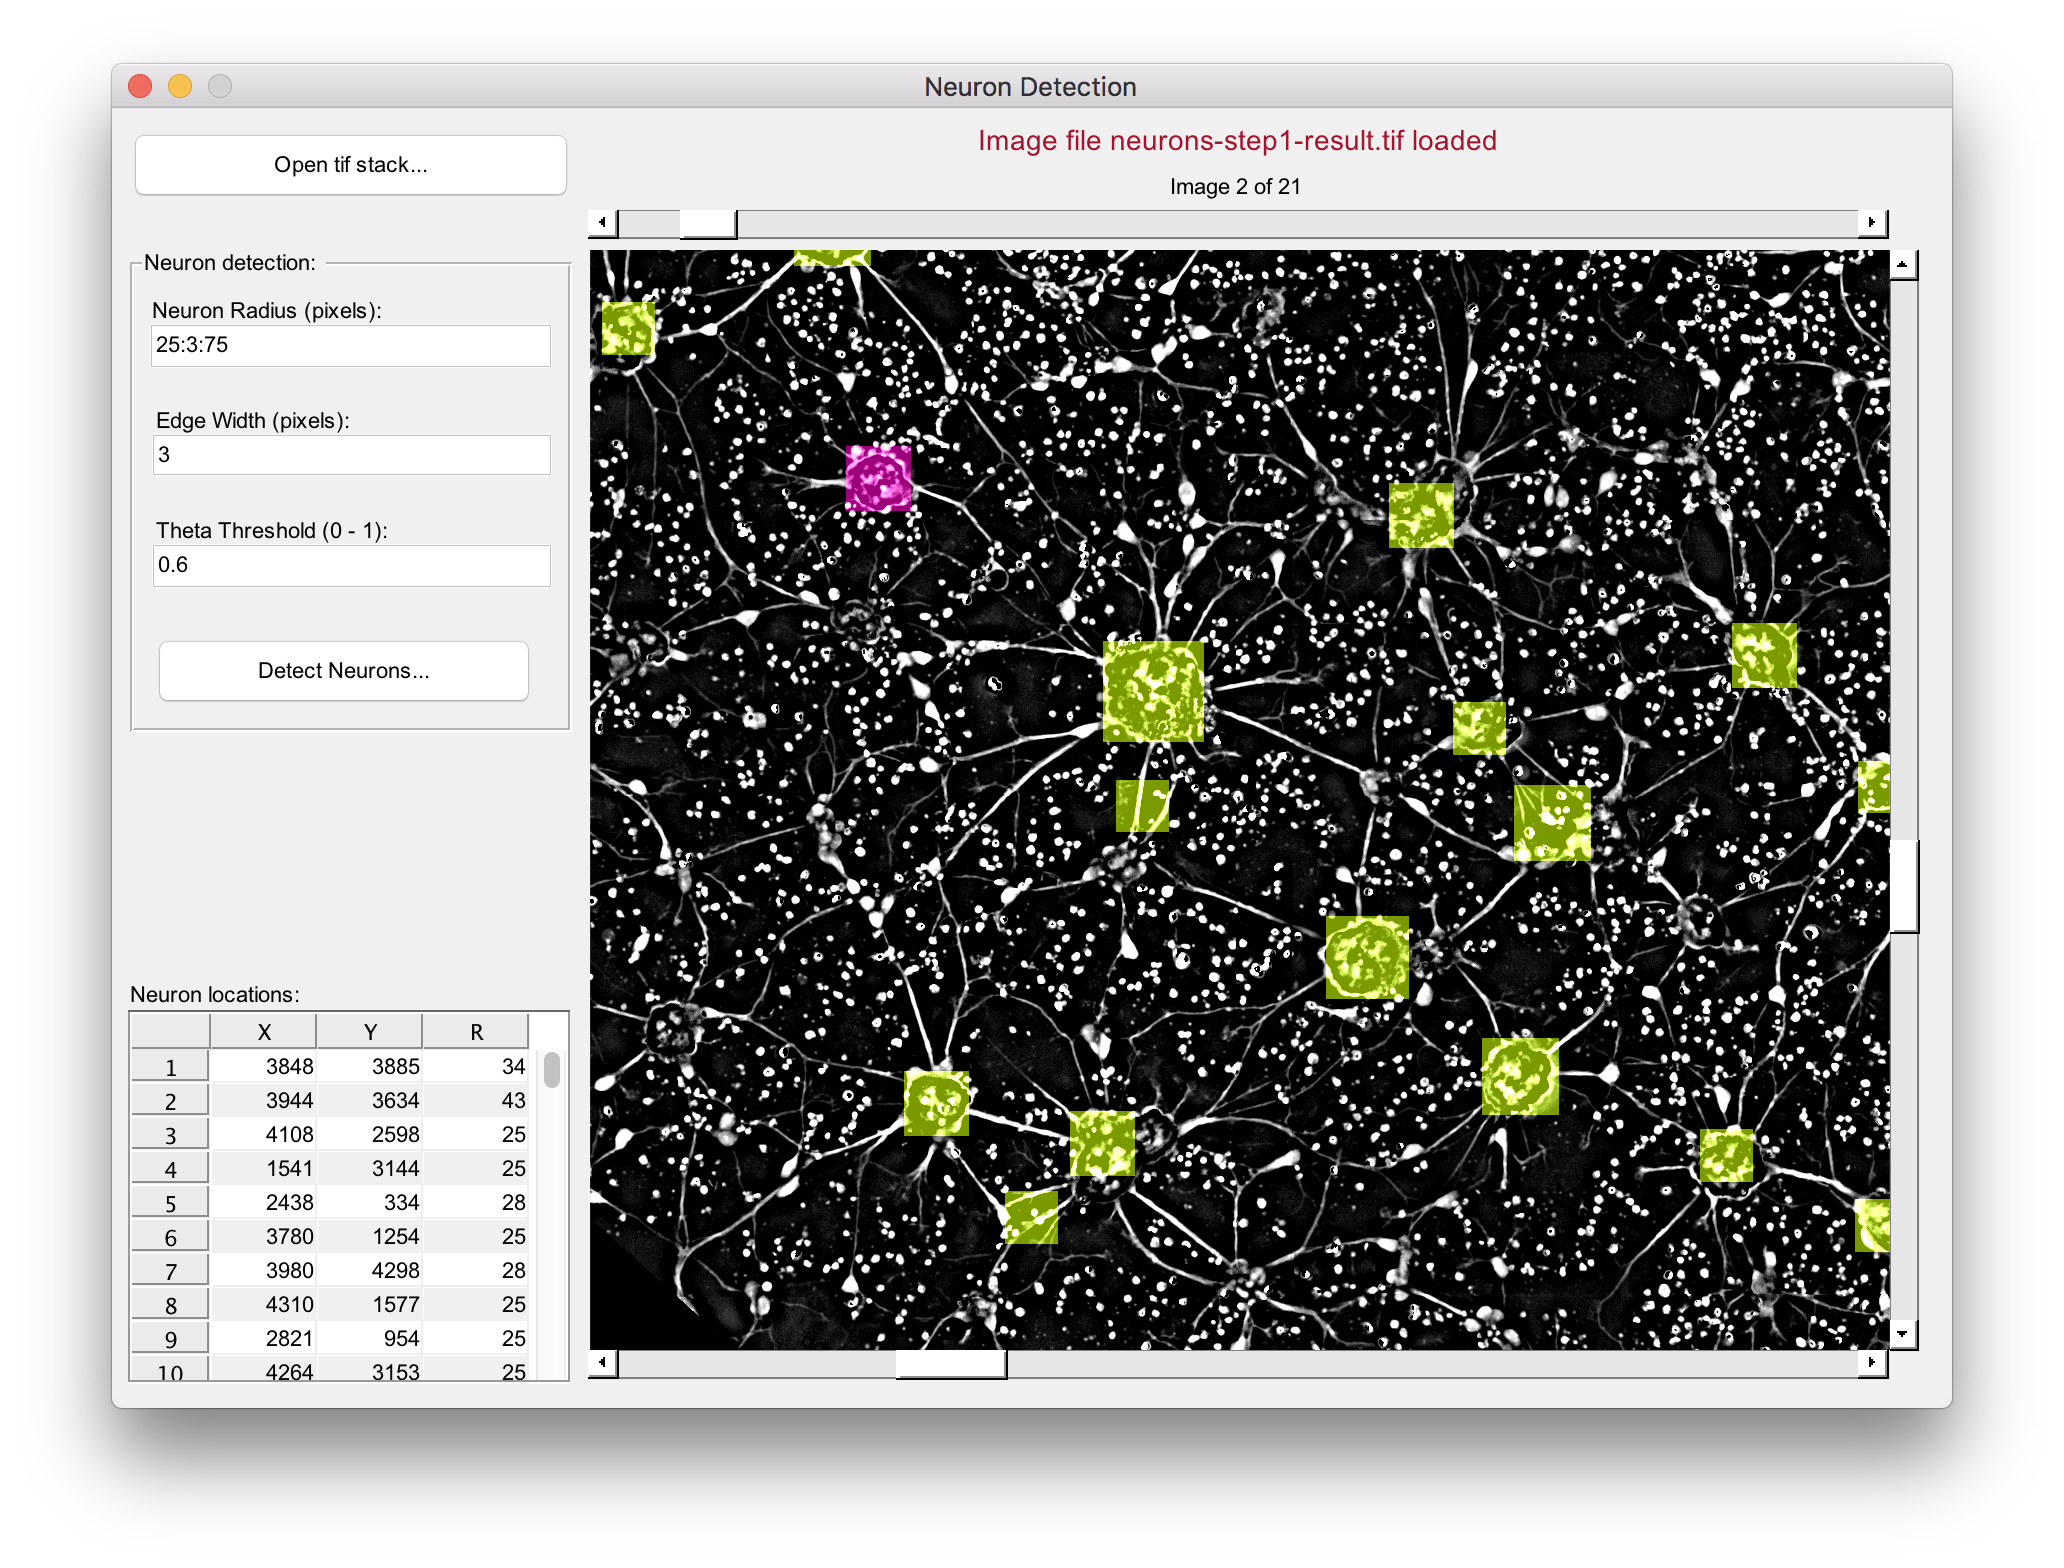
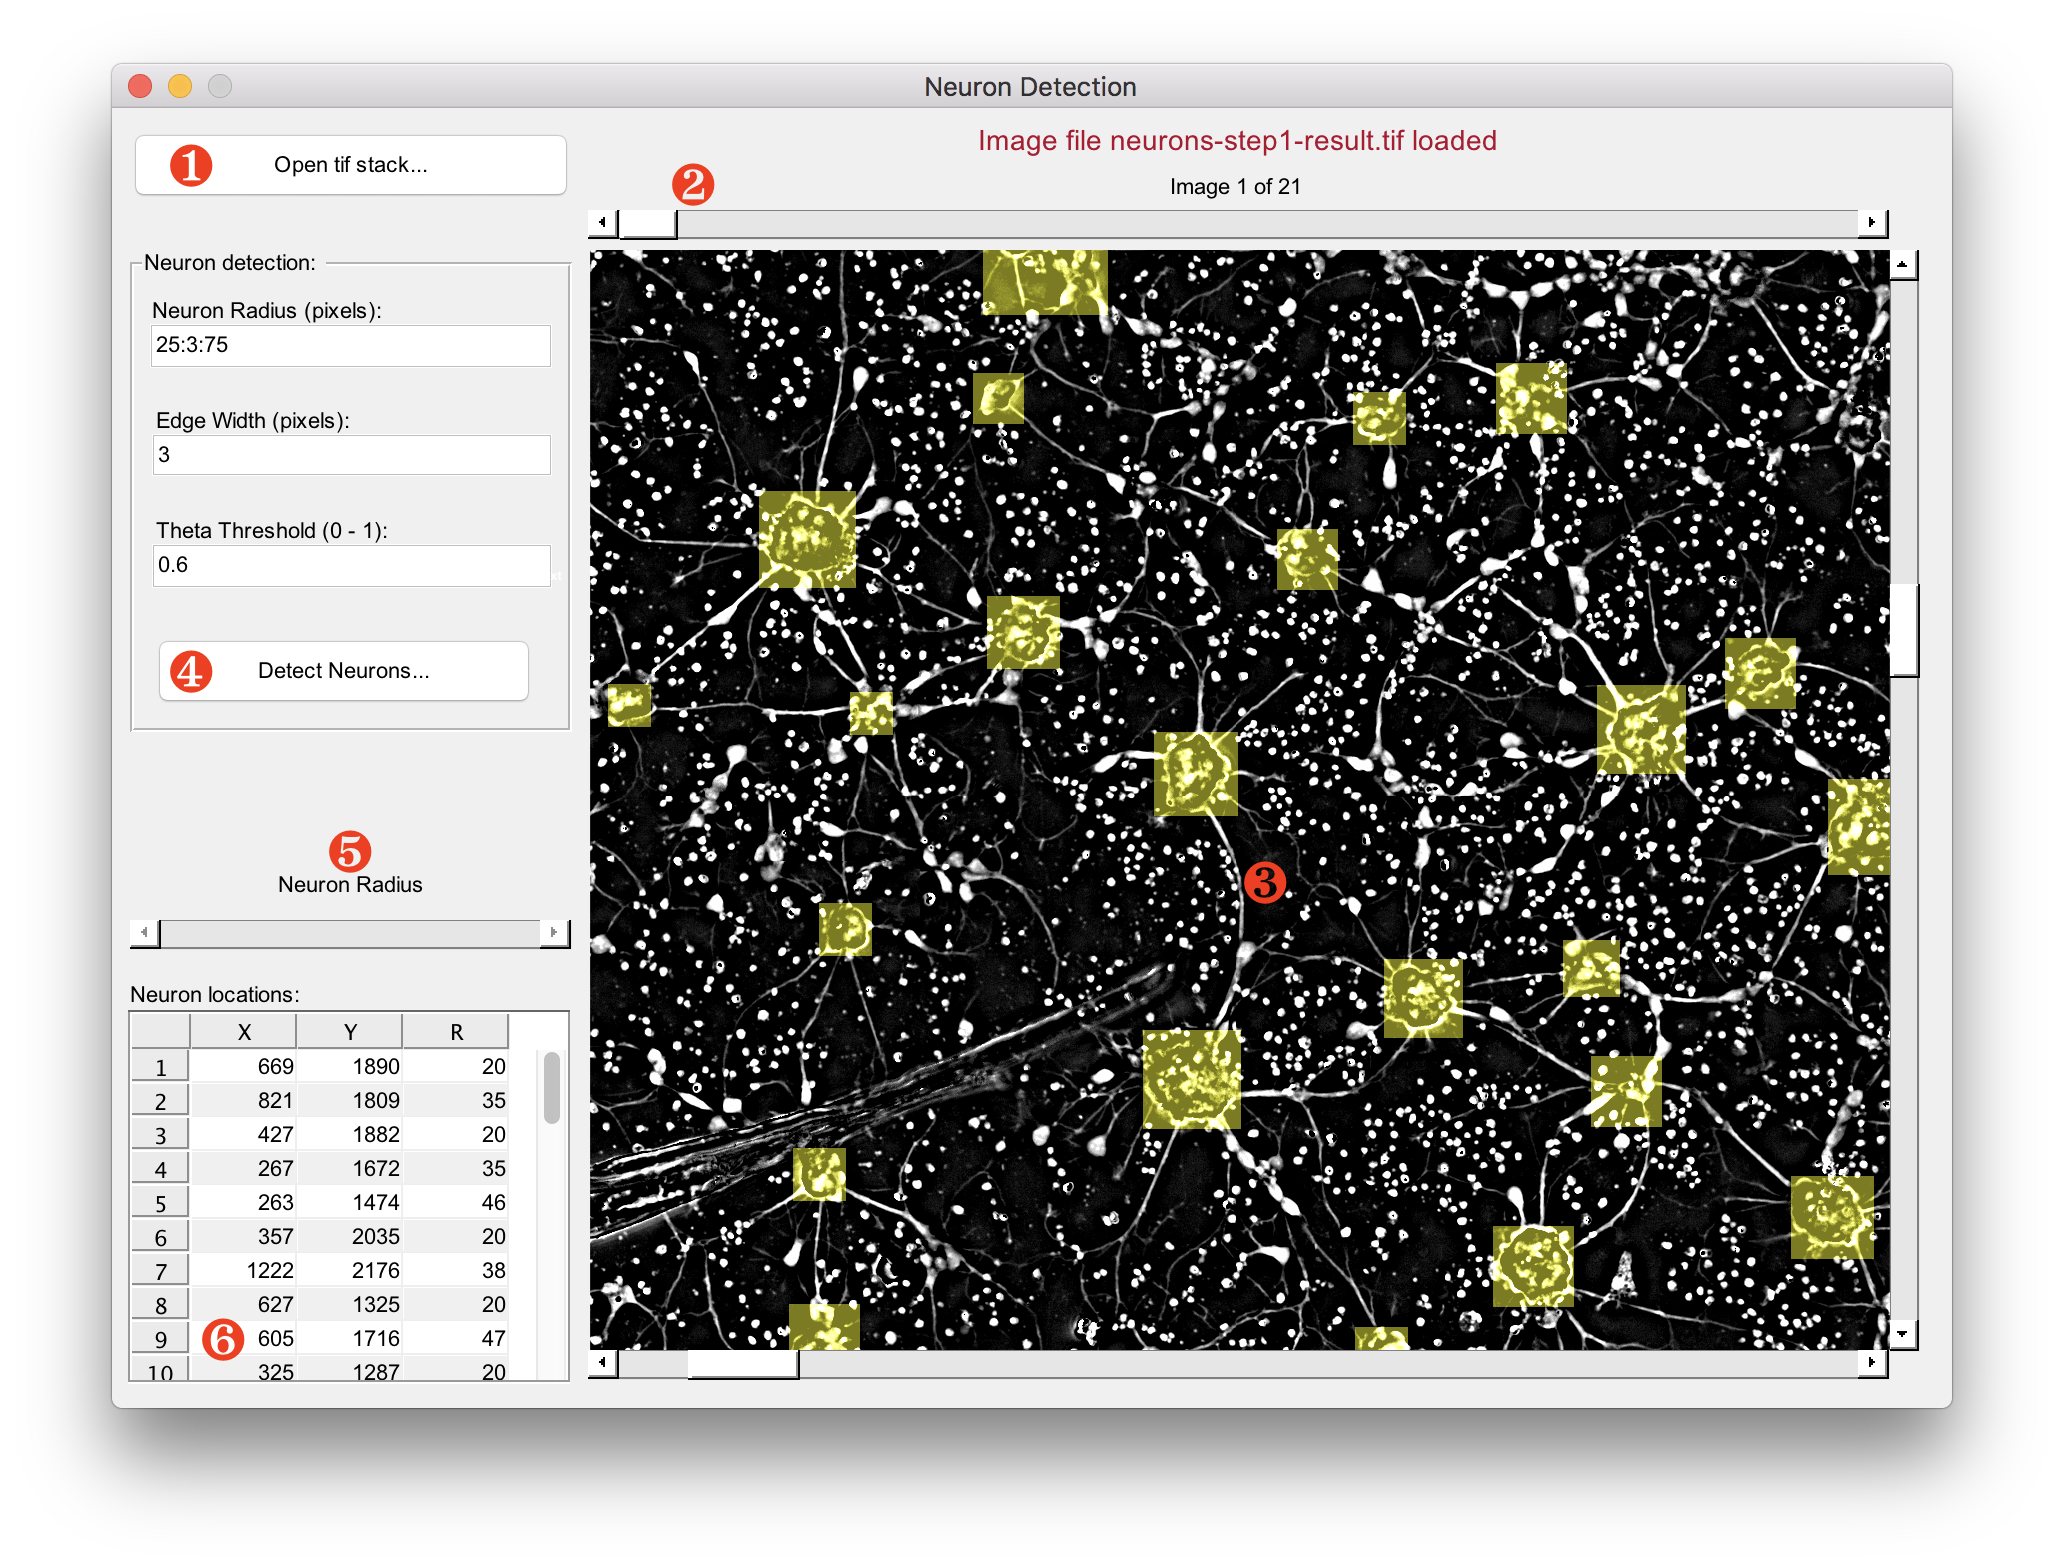
Fix automatic radius selection

diff --git a/AssessNeuronLocation.m b/AssessNeuronLocation.m
@@ -21,6 +21,7 @@ INTENSITY_THRESHOLD = 190;
 AREA_THRESHOLD      = 500;
 EXTENT_THRESHOLD    = 0.4;
 
+EDGE_WIDTH = 3;
 
 %% Image preprocessing
 
@@ -77,35 +78,59 @@ I = I | I_f & ~bwareaopen(I_f, 120);
 
 
 %% Neuron Detection
-
-% Step 1.
-% -----------------
-% Convolve the image with disk of different radius that match the neuron
-% sizes. This produces peaks at locations where the disk covers the most
-% number of white pixels. Select the highest peak as the location and the 
-% radius of the neuron
-
-
+% For each radius in the list, compute the ratio of pixels at the edge 
+% forming different angles with the center. Select the radius that give the
+% maximum ratio as the radius of the neuron
 
 RADIUS_LIST = R_MIN:R_MAX;
 
-value  = zeros(numel(RADIUS_LIST), 1);
-center = zeros(numel(RADIUS_LIST), 2);
+row = round(size(I, 1) / 2);
+col = round(size(I, 1) / 2);
 
-for k = 1:numel(RADIUS_LIST)
-    
-    I_d = conv2(I, single(fspecial('disk', RADIUS_LIST(k))), 'same');
+rows = max(1, row - R_MAX - EDGE_WIDTH) : min(size(I, 1), row + R_MAX + EDGE_WIDTH);
+cols = max(1, col - R_MAX - EDGE_WIDTH) : min(size(I, 2), col + R_MAX + EDGE_WIDTH);
 
-    [value(k), idx] = max(I_d(:));
-    [center(k, 2), center(k, 1)] = ind2sub(size(I_d), idx);
+Img = I(rows, cols);
+
+theta  = 0;
+radius = R_MIN;
+
+% Precompute the distance and angle matrix when the dimensions changed
+[mc, mr]    = meshgrid(cols - col, rows - row);
+D           = sqrt(single(mc .^ 2 + mr .^ 2));
+angles      = int16(atan2d(mc, mr));
+
+edge_pixels = zeros(size(D, 1), size(D, 2), numel(RADIUS_LIST), 'logical');
+
+for i = 1:numel(RADIUS_LIST)
+
+    % For each radius compute the maximum number of angles that can
+    % be found inside
+    inside_angles = zeros(1, 361, 'uint8');
+    inside_angles(angles(D <= RADIUS_LIST(i)) + 181) = 1; 
+    num_angles(i) = sum(inside_angles);
+
+    % Create the mask of edge pixels for each radius
+    edge_pixels(:, :, i) = (D <= RADIUS_LIST(i) + EDGE_WIDTH) & ...
+                           (D >= RADIUS_LIST(i) - EDGE_WIDTH);
 end
 
-% Use first peak as an indicator of neuron center and size
-[~, l] = findpeaks(value .* RADIUS_LIST');
+for i = 1:numel(RADIUS_LIST)
 
-p = [center(l(1), :), RADIUS_LIST(l(1))];
+    % Compute the ratio of angles found on the edge compared to number
+    % of posible angles for that radius
+    edge_angles = zeros(1, 361, 'uint8');
+    edge_angles(angles(edge_pixels(:, :, i) & Img) + 181) = 1;
+    ratio       = sum(edge_angles) / num_angles(i);
 
-disp(p)
+    % Save the radius with the maximum ratio
+    if ratio > theta
+        theta  = ratio;
+        radius = RADIUS_LIST(i);
+    end
+end
+
+p = [col, row, radius];
 
 end
 
